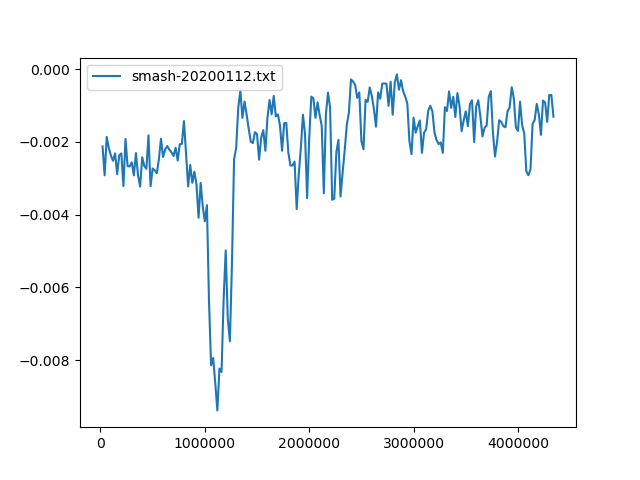
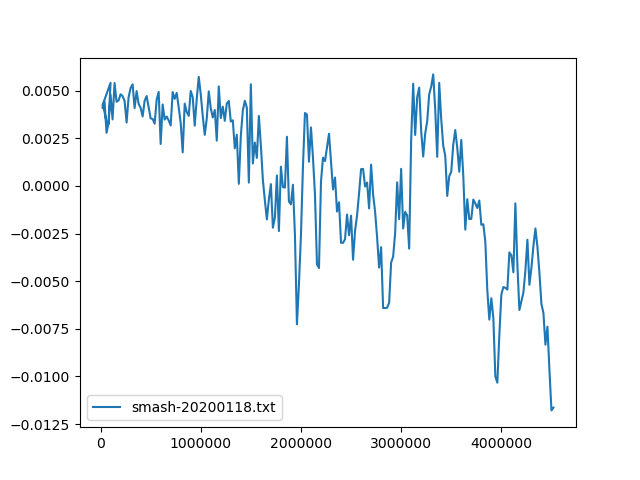
Added run for new smash...isn't going well

diff --git a/python/scripts/metrics.py b/python/scripts/metrics.py
@@ -8,7 +8,7 @@ from datetime import datetime
 import csv
 
 FILES = [
-    "smash-20200112.txt"
+    "smash-20200118.txt"
 ]
 
 data = []
